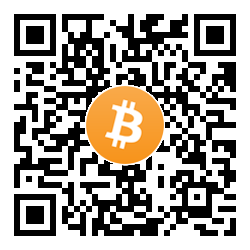
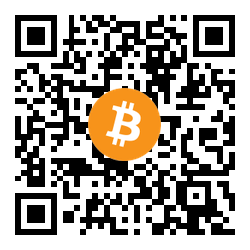
CI: verify donation addresses are signed by binaryFate
contributing: xmr/btc qr+uri consistency

contributing: add uri to QR's

contributing: obtain sensitive info from trusted source

diff --git a/css/custom.css b/css/custom.css
@@ -4705,3 +4705,11 @@ input.accordion[type=radio]:checked + label::after {
 .donation-field {
   user-select: all; /* Select donation addresses with one click */
 }
+
+#qr-link {
+    all: unset;
+}
+
+#qr-link:hover {
+    cursor: pointer;
+}

diff --git a/get-started/contributing/index.md b/get-started/contributing/index.md
@@ -70,24 +70,28 @@ meta_descr: meta_descr.contributing
                         <div class="col-xs-12">
                             <h3>{% t contributing.genfund %}</h3>
                             <p>{% t contributing.genfund_p %}</p>
-                            <p>Monero:<br><code class="donation-field">888tNkZrPN6JsEgekjMnABU4TBzc2Dt29EPAvkRxbANsAnjyPbb3iQ1YBRk1UXcdRsiKc9dhwMVgN5S9cQUiyoogDavup3H</code></p>
+                            <p>Monero:<br><code class="donation-field">{{ site.data.contributing.address_xmr }}</code></p>
                             <details>
                                 <summary>{% t contributing.donation_viewkeys %}:</summary>
                                 <ul>
-                                    <li>{% t contributing.primary_address %}: <code class="donation-field">44AFFq5kSiGBoZ4NMDwYtN18obc8AemS33DBLWs3H7otXft3XjrpDtQGv7SqSsaBYBb98uNbr2VBBEt7f2wfn3RVGQBEP3A</code></li>
-                                    <li>{% t moneropedia.entries.viewkey %}: <code class="donation-field">f359631075708155cc3d92a32b75a7d02a5dcf27756707b47a2b31b21c389501</code></li>
+                                    <li>{% t contributing.primary_address %}: <code class="donation-field">{{ site.data.contributing.view_address}}</code></li>
+                                    <li>{% t moneropedia.entries.viewkey %}: <code class="donation-field">{{ site.data.contributing.view_key }}</code></li>
                                 </ul>
                             </details>
-                            <p>Bitcoin:<br><code class="donation-field">1KTexdemPdxSBcG55heUuTjDRYqbC5ZL8H</code></p>
-                            <p>@openalias: <code class="donation-field">donate.getmonero.org</code></p>
+                            <p>Bitcoin:<br><code class="donation-field">{{ site.data.contributing.address_btc }}</code></p>
+                            <p>@openalias: <code class="donation-field">{{ site.data.contributing.address_openalias }}</code></p>
                         </div>
                     </div><br>
                     <div class="row center-xs">
                         <div class="col-lg-6">
-                            <img class="qr" src="/img/donate-monero.png" alt="{% t contributing.altqrmonero %}"/>
+                            <a id="qr-link" href="{{ site.data.contributing.qr_xmr_content }}">
+                                <img class="qr" src="/{{ site.data.contributing.qr_xmr_filename }}" alt="{% t contributing.altqrmonero %}"/>
+                            </a>
                         </div>
                         <div class="col-lg-6">
-                            <img class="qr" src="/img/donate-bitcoin.png" alt="{% t contributing.altqrbitcoin %}"/>
+                            <a id="qr-link" href="{{ site.data.contributing.qr_btc_content}}">
+                                <img class="qr" src="/{{ site.data.contributing.qr_btc_filename }}" alt="{% t contributing.altqrbitcoin %}"/>
+                            </a>
                         </div>
                     </div>
                     <div class="row start-xs">
